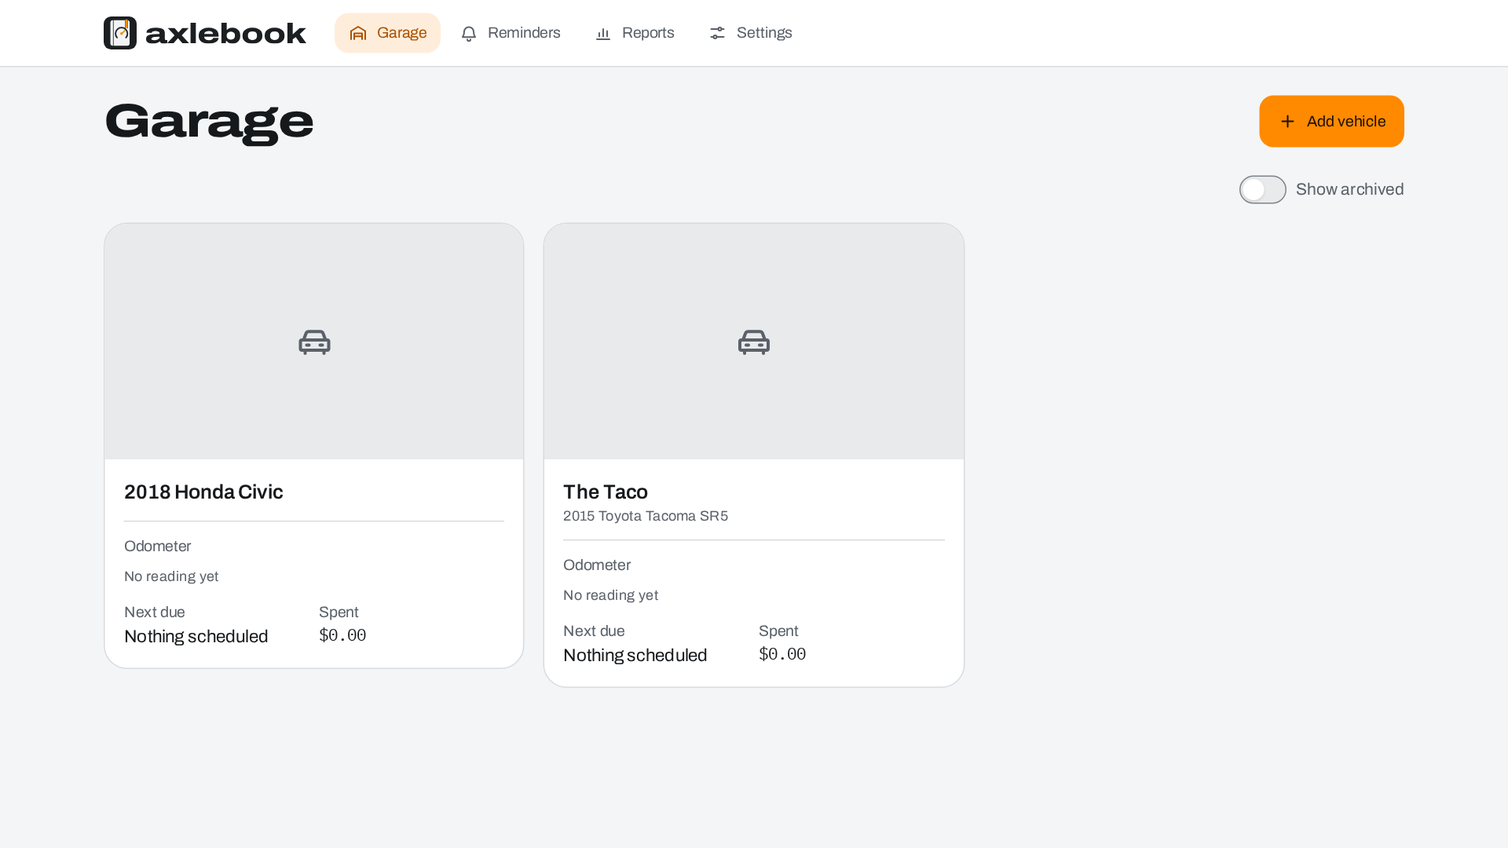
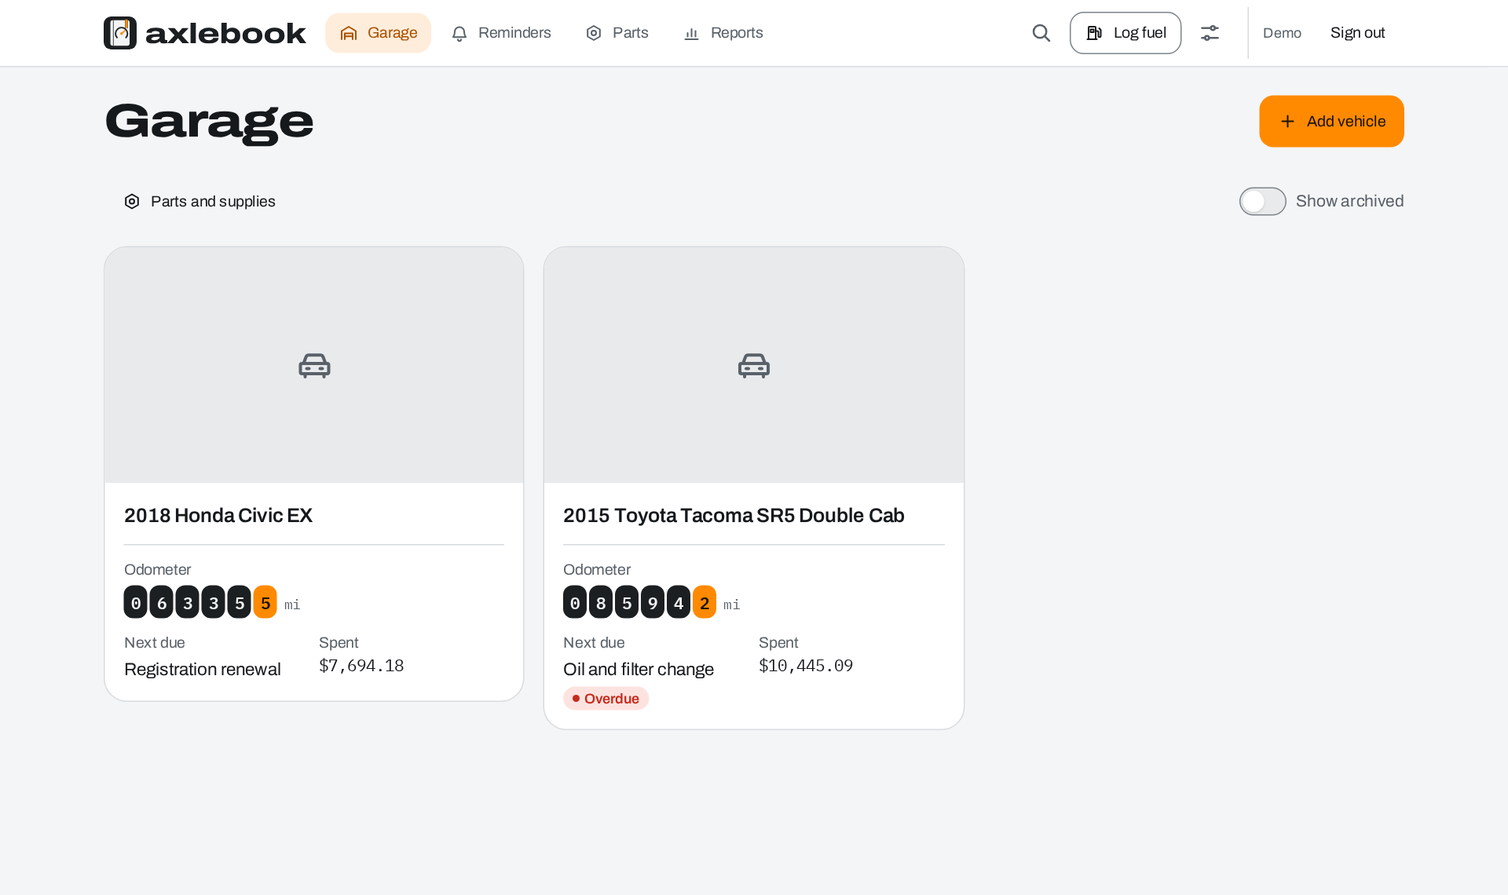
AXB 26.33 | rewrite the readme and refresh the screenshots

diff --git a/README.md b/README.md
@@ -3,26 +3,23 @@
   <img alt="Axlebook" src="logo-assets/social/readme-banner-light-1600x400.png">
 </picture>
 
-<h3 align="center">Every mile, on the record.</h3>
-
 <p align="center">
-  A self-hosted, open-source maintenance logbook for your cars, trucks and bikes.<br>
-  Service history, honest fuel economy, reminders that know your odometer, and every receipt in one place, on <b>your</b> server.
+  <b>Every mile, on the record.</b><br>
+  A self-hosted logbook for your cars, trucks and bikes.
 </p>
 
 <p align="center">
   <a href="https://github.com/aubergine-ux/axlebook/actions/workflows/ci.yml"><img alt="CI" src="https://github.com/aubergine-ux/axlebook/actions/workflows/ci.yml/badge.svg"></a>
-  <a href="LICENSE"><img alt="License: AGPL-3.0" src="https://img.shields.io/badge/license-AGPL--3.0-1c1f22?labelColor=1c1f22&color=ff8a00"></a>
-  <img alt="Self-hosted" src="https://img.shields.io/badge/self--hosted-docker%20compose-1c1f22?labelColor=1c1f22&color=5b6168">
+  <a href="LICENSE"><img alt="AGPL-3.0" src="https://img.shields.io/badge/license-AGPL--3.0-1c1f22?labelColor=1c1f22&color=ff8a00"></a>
+  <img alt="Docker: amd64 and arm64" src="https://img.shields.io/badge/docker-amd64%20%7C%20arm64-1c1f22?labelColor=1c1f22&color=5b6168">
   <img alt="No telemetry" src="https://img.shields.io/badge/telemetry-none-1c1f22?labelColor=1c1f22&color=5b6168">
-  <img alt="SQLite or Postgres" src="https://img.shields.io/badge/database-SQLite%20%7C%20Postgres-1c1f22?labelColor=1c1f22&color=5b6168">
 </p>
 
 <p align="center">
-  <a href="#quick-start"><b>Quick start</b></a> ·
-  <a href="#what-it-does">Features</a> ·
+  <a href="#getting-started"><b>Getting started</b></a> ·
+  <a href="#what-it-does">What it does</a> ·
   <a href="#screenshots">Screenshots</a> ·
-  <a href="#roadmap">Roadmap</a> ·
+  <a href="#configuration">Configuration</a> ·
   <a href="CONTRIBUTING.md">Contributing</a>
 </p>
 
@@ -30,65 +27,87 @@
 
 <picture>
   <source media="(prefers-color-scheme: dark)" srcset="docs/screenshots/garage-dark.png">
-  <img alt="The Axlebook garage: a card for each vehicle with its odometer, next reminder and money spent" src="docs/screenshots/garage-light.png">
+  <img alt="The Axlebook garage, with a card for each vehicle showing its odometer, what's due next and what it has cost" src="docs/screenshots/garage-light.png">
 </picture>
 
-## Why Axlebook
+## Why I made this
+
+For years my truck's history lived in three places: a spreadsheet I stopped updating, a shoebox
+of receipts, and a sticker in the corner of the windshield that was usually wrong. I wanted one
+place that knew when the oil was actually due, what the truck really gets per gallon, and what it
+has cost me since I bought it, without handing that to yet another app that wants an account and
+a subscription.
+
+Axlebook is that place. It runs on your own server or a Raspberry Pi in the closet, it doesn't
+phone home, and your records never leave your network unless you send them somewhere.
+
+## What it does
 
 <table>
   <tr>
     <td width="33%" valign="top">
-      <img src="logo-assets/icons/png/orange/garage-96.png" width="32" alt=""><br>
-      <b>Your garage, your server</b><br>
-      One <code>docker compose up</code>. SQLite by default, Postgres if you prefer. No accounts with us, no telemetry, no calls to anyone else's servers. Your logbook stays on your hardware.
-    </td>
-    <td width="33%" valign="top">
       <img src="logo-assets/icons/png/orange/fuel-96.png" width="32" alt=""><br>
-      <b>Honest fuel economy</b><br>
-      Full-to-full MPG (or L/100 km) that handles partial fills and the fill-up you forgot to log, instead of quietly averaging nonsense.
+      <b>Fuel economy you can trust</b><br>
+      Log a fill-up in a few seconds at the pump, even with no signal. MPG (or L/100 km) is worked out full tank to full tank, so a partial fill or a fill-up you forgot to log doesn't wreck your average.
     </td>
     <td width="33%" valign="top">
       <img src="logo-assets/icons/png/orange/reminder-96.png" width="32" alt=""><br>
-      <b>Reminders that know your odometer</b><br>
-      Due by date, by distance, or whichever comes first. Log the oil change and the next one schedules itself. Email, ntfy, Gotify, Discord or a webhook.
+      <b>Reminders that know the odometer</b><br>
+      Due by date, by distance, or whichever comes first. Log the oil change and the next one schedules itself. Get a nudge by email, ntfy, Gotify, Discord or a webhook when something is due soon or overdue.
+    </td>
+    <td width="33%" valign="top">
+      <img src="logo-assets/icons/png/orange/garage-96.png" width="32" alt=""><br>
+      <b>Yours, on your hardware</b><br>
+      One <code>docker compose up</code>. SQLite out of the box, Postgres if you'd rather. No telemetry, no outside calls unless you set up notifications, and a one-click backup of everything.
     </td>
   </tr>
 </table>
 
-## What it does
+**The logbook**
+- A garage of vehicles with photos, current odometer, what's due next and cost to date. Archive the ones you've sold.
+- Service, repairs, upgrades, fuel, and running costs like registration, insurance and tolls. Each record can carry tags, notes and the receipt (photo or PDF).
+- An odometer log that fills itself in from every record with a reading.
+- A parts shelf: oil, filters and spares, deducted automatically when a record uses them.
+- A planner for jobs you mean to get to, turned into a record with one tap when they're done.
 
-|                                                                            | Feature                                                                                                                            |         |
-| :------------------------------------------------------------------------: | ---------------------------------------------------------------------------------------------------------------------------------- | :-----: |
-| <img src="logo-assets/icons/png/orange/vehicle-96.png" width="24" alt="">  | **Garage.** A card per vehicle with photo, odometer, next reminder and cost to date. Archive the ones you've sold.                 |  Ready  |
-| <img src="logo-assets/icons/png/orange/service-96.png" width="24" alt="">  | **Records.** Service, repairs, upgrades, taxes, registration and insurance, with tags, notes, and receipts or photos attached.     | Next up |
-| <img src="logo-assets/icons/png/orange/odometer-96.png" width="24" alt=""> | **Odometer log.** Every record with a reading updates it, shown like the instrument cluster you read it from.                      | Next up |
-|   <img src="logo-assets/icons/png/orange/fuel-96.png" width="24" alt="">   | **Fuel.** Gallons or liters, price, full-tank flag. Logging at the pump takes seconds, even offline.                               | Planned |
-| <img src="logo-assets/icons/png/orange/reminder-96.png" width="24" alt=""> | **Reminders.** Date, distance or both; recurring; upcoming, due soon and overdue at a glance.                                      | Planned |
-|  <img src="logo-assets/icons/png/orange/parts-96.png" width="24" alt="">   | **Parts and supplies.** Inventory with cost, deducted automatically when you use them.                                             | Planned |
-| <img src="logo-assets/icons/png/orange/planner-96.png" width="24" alt="">  | **Planner.** Jobs you mean to do, turned into records when they're done.                                                           | Planned |
-| <img src="logo-assets/icons/png/orange/reports-96.png" width="24" alt="">  | **Reports.** Cost per month and category, cost per mile, MPG trends, lifetime totals. Printable.                                   | Planned |
-|  <img src="logo-assets/icons/png/orange/export-96.png" width="24" alt="">  | **Import and export.** CSV per record type, full backup and restore, and an importer for LubeLogger exports.                       | Planned |
-| <img src="logo-assets/icons/png/orange/settings-96.png" width="24" alt=""> | **Household-ready.** Admin, editor and viewer roles, per-vehicle sharing, optional single sign-on (Authentik, Authelia, Keycloak). | Planned |
-|  <img src="logo-assets/icons/png/orange/search-96.png" width="24" alt="">  | **REST API.** Everything the app can do, documented with OpenAPI at `/api/docs`.                                                   |  Ready  |
+**Making sense of it**
+- Reports: spending by month and category, cost per mile, fuel economy over time and lifetime totals. Printable, and downloadable as CSV.
+- Search across every record in the garage, by text, tag or type.
 
-Also on the list: dark and light themes, imperial or metric, any currency, installable on your phone as an app, full keyboard access, and every string ready for translation.
+**Living with it**
+- Accounts for the household with admin, editor and viewer roles, plus per-vehicle sharing. Optional single sign-on through Authentik, Authelia, Keycloak or any OpenID Connect provider.
+- Imperial or metric, any currency, light and dark themes, and installable on your phone's home screen.
+- Keyboard-accessible, and every word in the interface comes from a translation file, ready for other languages.
+- A REST API for everything the app does, with interactive docs at `/api/docs` and personal API tokens.
+- Import from CSV, including exports from LubeLogger (experimental, so check the preview before you import).
 
 ## Screenshots
 
 <table>
   <tr>
-    <td width="68%" valign="top">
+    <td colspan="3">
       <picture>
         <source media="(prefers-color-scheme: dark)" srcset="docs/screenshots/vehicle-dark.png">
-        <img alt="A vehicle's page with its details" src="docs/screenshots/vehicle-light.png">
+        <img alt="A vehicle's overview: odometer, average economy, cost per mile, what's coming up and recent records" src="docs/screenshots/vehicle-light.png">
       </picture>
     </td>
-    <td width="16%" valign="top"><img alt="Garage on a phone, dark theme" src="docs/screenshots/phone-garage.png"></td>
-    <td width="16%" valign="top"><img alt="Adding a vehicle on a phone" src="docs/screenshots/phone-form.png"></td>
+  </tr>
+  <tr>
+    <td width="33%" valign="top"><img alt="Logging fuel on a phone" src="docs/screenshots/phone-log.png"></td>
+    <td width="33%" valign="top"><img alt="Fuel history with economy per fill-up" src="docs/screenshots/phone-fuel.png"></td>
+    <td width="33%" valign="top"><img alt="Reminders grouped by overdue and upcoming" src="docs/screenshots/phone-reminders.png"></td>
+  </tr>
+  <tr>
+    <td colspan="3">
+      <picture>
+        <source media="(prefers-color-scheme: dark)" srcset="docs/screenshots/reports-dark.png">
+        <img alt="Reports: spending by month, where the money went and fuel economy over time" src="docs/screenshots/reports-light.png">
+      </picture>
+    </td>
   </tr>
 </table>
 
-## Quick start
+## Getting started
 
 You need Docker with Compose v2.
 
@@ -98,14 +117,20 @@ cd axlebook
 docker compose up -d
 ```
 
-Open **http://localhost:8080** and add your first vehicle. Everything lives in the `axlebook-data` volume.
+Open **http://localhost:8080** and create your account. That's it: everything you enter is kept
+in the `axlebook-data` volume.
+
+Want to look around first? Start it with `SEED_DEMO_DATA=true` in `.env` and you'll get a 2015
+Tacoma and a 2018 Civic with a couple of years of fill-ups, services, a repair or two, and a
+reminder that's already overdue.
 
 <details>
-<summary><b>Run the published image instead of building</b></summary>
+<summary><b>Use the published image instead of building</b></summary>
 
 <br>
 
-Release images for `linux/amd64` and `linux/arm64` are published to GitHub Container Registry with every tagged release.
+Images for `linux/amd64` and `linux/arm64` (so a Raspberry Pi 4 or 5 works) are published to
+GitHub Container Registry with each release:
 
 ```yaml
 services:
@@ -115,7 +140,8 @@ services:
     ports:
       - "8080:8080"
     environment:
-      BASE_URL: https://cars.example.com # your public URL
+      BASE_URL: https://cars.example.com
+      TZ: America/Chicago
     volumes:
       - axlebook-data:/data
 volumes:
@@ -124,17 +150,29 @@ volumes:
 </details>
 
 <details>
-<summary><b>Use Postgres instead of SQLite</b></summary>
+<summary><b>Windows and macOS</b></summary>
 
 <br>
 
-SQLite is the default and plenty for a household. For Postgres:
+Install [Docker Desktop](https://www.docker.com/products/docker-desktop/) (on Windows it uses
+WSL 2) and run the same `docker compose up -d`. It's the same Linux image everyone else runs.
+Running from source works on Windows, macOS and Linux too, and CI tests every change on both
+Linux and Windows.
+</details>
+
+<details>
+<summary><b>Postgres instead of SQLite</b></summary>
+
+<br>
+
+SQLite is plenty for a household. If you'd like Postgres:
 
 ```bash
 POSTGRES_PASSWORD=pick-something docker compose -f docker-compose.yml -f docker-compose.postgres.yml up -d
 ```
 
-Or point `DATABASE_URL` at a server you already run. Migrations run automatically on startup either way.
+Or point `DATABASE_URL` at a server you already run. The database is set up and upgraded
+automatically every time Axlebook starts.
 </details>
 
 <details>
@@ -142,81 +180,104 @@ Or point `DATABASE_URL` at a server you already run. Migrations run automaticall
 
 <br>
 
-Set `BASE_URL` to the public URL and `TRUST_PROXY=true`. Axlebook rejects state-changing requests whose `Origin` doesn't match `BASE_URL` (CSRF protection), so it must be exactly what people type: scheme, host and port.
+Set `BASE_URL` to the address people type (scheme, host and port all count) and
+`TRUST_PROXY=true`. Axlebook refuses changes coming from any other origin, which is what keeps
+other websites from acting on your behalf.
+</details>
+
+<details>
+<summary><b>Single sign-on</b></summary>
+
+<br>
+
+Register Axlebook with your provider using the redirect URI
+`<BASE_URL>/api/v1/auth/oidc/callback`, then set `OIDC_ISSUER`, `OIDC_CLIENT_ID` and
+`OIDC_CLIENT_SECRET`. A "Continue with …" button appears on the sign-in page. Accounts are created
+on first sign-in, and members of `OIDC_ADMIN_GROUP` become admins.
 </details>
 
 ## Configuration
 
-Everything is an environment variable and everything is optional. Put them in `.env` next to `docker-compose.yml`; [`.env.example`](.env.example) lists each one with a comment.
+Everything is an environment variable and everything is optional. Put them in a `.env` file next
+to `docker-compose.yml`; [`.env.example`](.env.example) lists all of them with notes.
 
-| Variable              | Default    | What it does                                                                        |
-| --------------------- | ---------- | ----------------------------------------------------------------------------------- |
-| `PORT`                | `8080`     | Port inside the container                                                           |
-| `AXLEBOOK_PORT`       | `8080`     | Host port published by `docker-compose.yml`                                         |
-| `BASE_URL`            |            | Public URL, e.g. `https://cars.example.com`. Pins the CSRF origin check             |
-| `TRUST_PROXY`         | `false`    | Trust `X-Forwarded-*` headers from a reverse proxy                                  |
-| `LOG_LEVEL`           | `info`     | `fatal` · `error` · `warn` · `info` · `debug` · `trace` · `silent`                  |
-| `DATA_DIR`            | `/data`    | SQLite database, photos and attachments                                             |
-| `DATABASE_URL`        |            | `postgres://…` to use Postgres; unset means SQLite in `DATA_DIR`                    |
-| `MAX_UPLOAD_MB`       | `25`       | Largest single upload                                                               |
-| `DEFAULT_UNIT_SYSTEM` | `imperial` | `imperial` or `metric` for new users                                                |
-| `DEFAULT_CURRENCY`    | `USD`      | ISO 4217 code, used across the instance                                             |
-| `DEFAULT_LOCALE`      | `en`       | Interface language for new users                                                    |
-| `SEED_DEMO_DATA`      | `false`    | Seed a 2015 Tacoma and a 2018 Civic with history _(arrives with the first release)_ |
-
-Settings for sign-in, email and notifications are added as those features land.
+| Variable                                                                       | Default    |                                                                                                                         |
+| ------------------------------------------------------------------------------ | ---------- | ----------------------------------------------------------------------------------------------------------------------- |
+| `BASE_URL`                                                                     |            | The address people use, e.g. `https://cars.example.com`. Needed for single sign-on and links in notifications           |
+| `TZ`                                                                           | `UTC`      | Your time zone, so "due today" means your today                                                                         |
+| `TRUST_PROXY`                                                                  | `false`    | Trust `X-Forwarded-*` headers from a reverse proxy                                                                      |
+| `DATABASE_URL`                                                                 |            | `postgres://…` to use Postgres; leave unset for SQLite                                                                  |
+| `DATA_DIR`                                                                     | `/data`    | Database, photos and receipts                                                                                           |
+| `MAX_UPLOAD_MB`                                                                | `25`       | Largest single upload                                                                                                   |
+| `ADMIN_USERNAME`, `ADMIN_PASSWORD`                                             |            | Create the first admin without the setup screen                                                                         |
+| `SESSION_DAYS`                                                                 | `30`       | How long a sign-in lasts without use                                                                                    |
+| `DISABLE_LOCAL_LOGIN`                                                          | `false`    | Only allow single sign-on                                                                                               |
+| `OIDC_ISSUER`, `OIDC_CLIENT_ID`, `OIDC_CLIENT_SECRET`                          |            | Single sign-on. See also `OIDC_SCOPES`, `OIDC_LABEL`, `OIDC_AUTO_CREATE_USERS`, `OIDC_DEFAULT_ROLE`, `OIDC_ADMIN_GROUP` |
+| `SMTP_HOST`, `SMTP_PORT`, `SMTP_USER`, `SMTP_PASS`, `SMTP_FROM`, `SMTP_SECURE` |            | Only needed for email notifications                                                                                     |
+| `REMINDER_SCAN_INTERVAL_MIN`                                                   | `60`       | How often reminders are checked for notifications                                                                       |
+| `DEFAULT_UNIT_SYSTEM`                                                          | `imperial` | `imperial` or `metric` for new accounts                                                                                 |
+| `DEFAULT_CURRENCY`                                                             | `USD`      | Currency for the instance (changeable in Settings)                                                                      |
+| `SEED_DEMO_DATA`                                                               | `false`    | Add the demo Tacoma and Civic on first start                                                                            |
+| `PORT` / `AXLEBOOK_PORT`                                                       | `8080`     | Port inside the container / port published by Compose                                                                   |
+| `LOG_LEVEL`                                                                    | `info`     | `debug` when something's odd                                                                                            |
 
 ## Backups
 
-All of Axlebook's state is in the data volume (with Postgres: the database plus the volume's photos and attachments).
+**The easy way:** Settings → Your data → Download backup. You get a zip with every record,
+reminder, part, photo and receipt. On a fresh instance, an admin can restore it from the same
+screen. It works across SQLite and Postgres, so it's also how you move between them.
+
+**From the command line**, for scheduled backups:
 
 ```bash
-# SQLite (default): stop, copy, start
 docker compose stop axlebook
 docker compose cp axlebook:/data ./axlebook-backup-$(date +%F)
 docker compose start axlebook
 ```
 
-Restore by stopping the container, running `docker compose cp ./axlebook-backup-YYYY-MM-DD/. axlebook:/data`, and starting it again.
+With Postgres, run `pg_dump` against the database and copy `/data` for the photos and receipts.
+
+## The API
+
+Everything the app does goes through a REST API under `/api/v1`. Browse it at `/api/docs` on your
+instance, or grab the OpenAPI spec from `/api/openapi.json`. For scripts, create a token in
+Settings and send it as `Authorization: Bearer …`. Logging a fill-up from a shortcut on your
+phone looks like this:
 
 ```bash
-# Postgres
-docker compose exec db pg_dump -U axlebook axlebook > axlebook-$(date +%F).sql
-docker compose cp axlebook:/data ./axlebook-files-$(date +%F)
+curl -X POST https://cars.example.com/api/v1/vehicles/1/records \
+  -H "Authorization: Bearer $AXLEBOOK_TOKEN" -H "Content-Type: application/json" \
+  -d '{"kind":"fuel","date":"2026-11-04","odometer":84217,"fuel":{"volume":10820,"pricePerUnit":3499}}'
 ```
 
-A one-click backup and restore that moves between SQLite and Postgres is on the [roadmap](#roadmap).
+Amounts and fuel volumes are in thousandths (10820 = 10.82 gal, 3499 = $3.499), so nothing gets
+rounded on the way in.
 
-## API
+## What's next
 
-Everything is under `/api/v1`. Browse the interactive docs at **`/api/docs`** on your instance, or grab the spec from `/api/openapi.json`. Errors always look like `{ "error": { "code": "…", "params": { … } } }`.
-
-## Roadmap
-
-- [x] Foundation: API, SQLite and Postgres, automatic migrations, installable web app, Docker image, CI
-- [x] Garage and vehicles, with photos
-- [ ] Service, repair, upgrade and expense records with tags and attachments
-- [ ] Odometer log, fuel fill-ups and fuel economy
-- [ ] Reminders
-- [ ] Parts inventory and planner
-- [ ] Reports
-- [ ] Import/export, backup and restore, LubeLogger import, search
-- [ ] Accounts, roles, sharing, API tokens and single sign-on
-- [ ] Notifications: email, ntfy, Gotify, Discord, webhooks
-- [ ] Demo data and the first tagged release
-- [ ] Offline fuel entry: log at the pump with no signal, sync later
+Things I'd like to add, roughly in order: EV charging sessions alongside fuel, more languages
+(if you'd like to translate, see [CONTRIBUTING.md](CONTRIBUTING.md)), recurring costs that log
+themselves, and a VIN decoder that works offline. Ideas and requests are welcome in
+[Discussions](https://github.com/aubergine-ux/axlebook/discussions).
 
 ## Built with
 
-TypeScript end to end: [Fastify](https://fastify.dev) and [Kysely](https://kysely.dev) on the server, [React](https://react.dev), [TanStack Router](https://tanstack.com/router) and [React Aria](https://react-spectrum.adobe.com/react-aria/) in the browser, and [Tailwind CSS](https://tailwindcss.com) driven by the [Axlebook brand tokens](logo-assets/tokens.json). Type is set in Archivo and IBM Plex Mono, both self-hosted.
+TypeScript all the way through: [Fastify](https://fastify.dev) and [Kysely](https://kysely.dev) on
+the server, [React](https://react.dev), [TanStack Router](https://tanstack.com/router) and
+[React Aria](https://react-spectrum.adobe.com/react-aria/) in the browser, styled with
+[Tailwind CSS](https://tailwindcss.com) from the [Axlebook brand tokens](logo-assets/tokens.json).
+Type is Archivo and IBM Plex Mono, both served by Axlebook itself.
 
 ## Contributing
 
-Bug reports, translations, docs and code are all welcome. [CONTRIBUTING.md](CONTRIBUTING.md) covers the dev setup (`npm ci && npm run dev`), the conventions and how to add a language. Please read the [code of conduct](CODE_OF_CONDUCT.md) too.
+Bug reports, translations, docs fixes and code are all welcome. [CONTRIBUTING.md](CONTRIBUTING.md)
+covers getting a dev setup running (`npm ci && npm run dev`) and how the project fits together.
+Please read the [code of conduct](CODE_OF_CONDUCT.md) too.
 
 ## License
 
-[AGPL-3.0](LICENSE). Use it, change it and host it freely. If you run a modified version as a service for other people, share your changes under the same license.
+[AGPL-3.0](LICENSE). Use it, change it and host it for yourself or your family. If you run a
+modified version as a service for other people, share your changes under the same license.
 
 <br>
 

diff --git a/CONTRIBUTING.md b/CONTRIBUTING.md
@@ -35,6 +35,7 @@ npm run lint         # Biome: lint + format check (npm run lint:fix to auto-fix)
 npm run typecheck
 npm test             # unit + API integration tests (SQLite, in memory)
 npm run test:pg      # same API tests against Postgres (needs TEST_DATABASE_URL)
+npm run e2e          # builds, then runs browser smoke tests (npx playwright install chromium once)
 ```
 
 CI runs all of these, including the Postgres suite.
